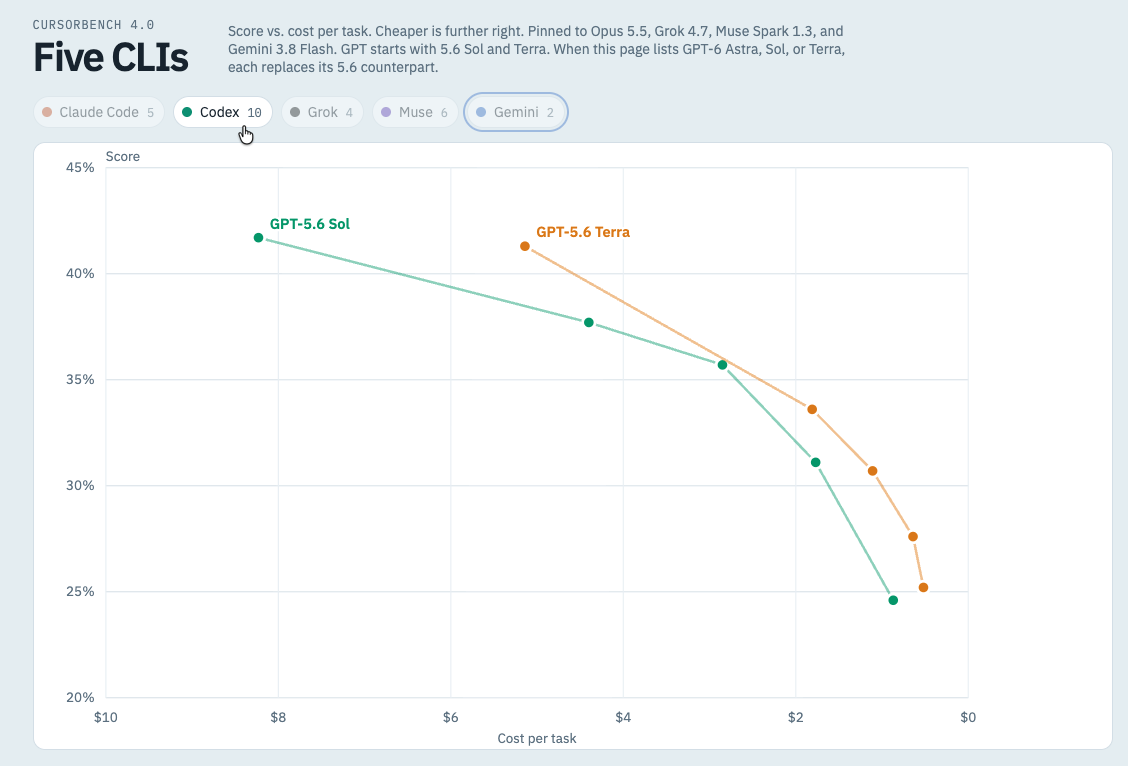
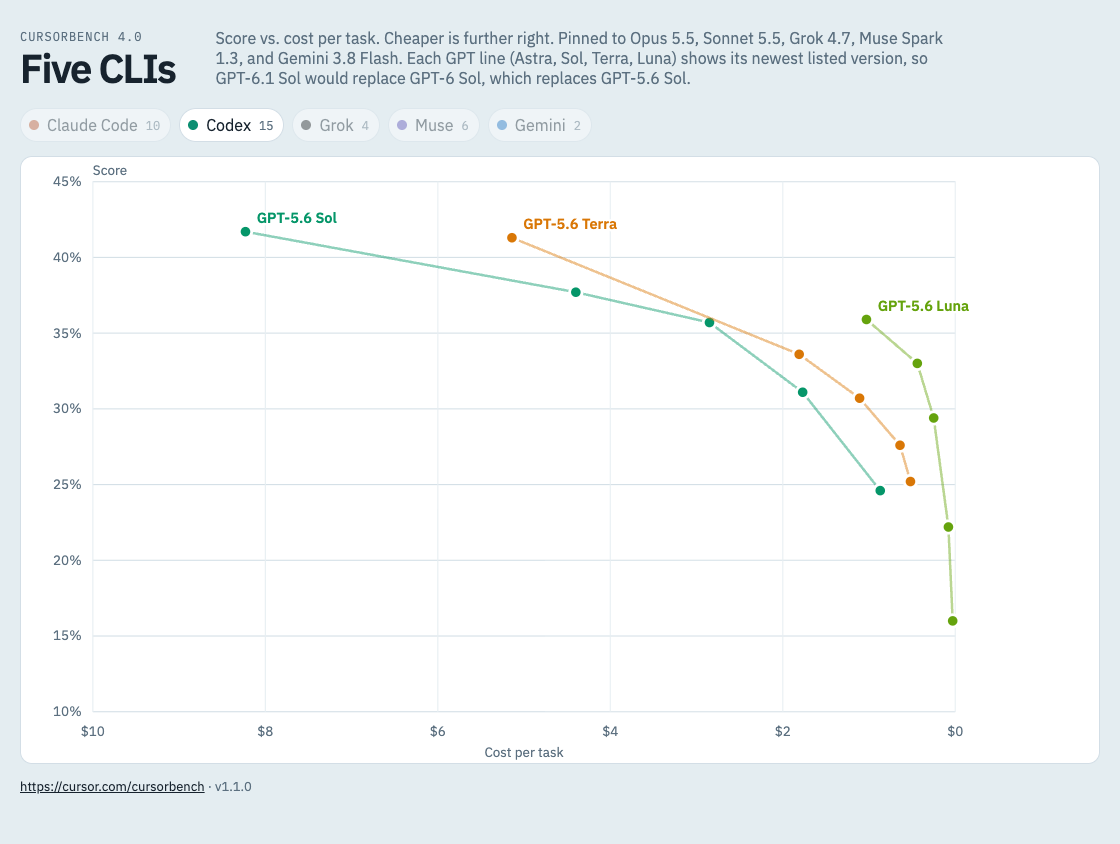
feat: newest GPT line per family, add Sonnet 5.5 and GPT-5.6 Luna
- Each GPT line (Astra, Sol, Terra, Luna) shows its newest listed
  version, so GPT-6.1 Sol replaces GPT-6 Sol, which replaces GPT-5.6 Sol.
- Keep Sonnet 5.5 for Claude Code and GPT-5.6 Luna for Codex.
- Series colors for Sonnet, Fable and Luna.
- Remove unused src/snapshot.ts; refresh README and demo screenshots.
- Bump to 1.1.0.

diff --git a/src/bench.ts b/src/bench.ts
@@ -24,7 +24,7 @@ export const PROVIDERS: readonly {
 
 export const SOURCE_URL = "https://cursor.com/cursorbench"
 
-export const APP_VERSION = "1.0.0"
+export const APP_VERSION = "1.1.0"
 
 export function providerById(id: ProviderId) {
   const found = PROVIDERS.find((item) => item.id === id)
@@ -34,9 +34,12 @@ export function providerById(id: ProviderId) {
 
 export function seriesColor(model: string, provider: ProviderId) {
   if (model.startsWith("Opus")) return "#0ea5e9"
+  if (model.startsWith("Sonnet")) return "#c4552a"
+  if (model.startsWith("Fable")) return "#9a3412"
   if (model.includes("Sol")) return "#059669"
   if (model.includes("Terra")) return "#d97706"
   if (model.includes("Astra")) return "#0f766e"
+  if (model.includes("Luna")) return "#65a30d"
   return providerById(provider).color
 }
 

diff --git a/src/App.tsx b/src/App.tsx
@@ -55,9 +55,9 @@ export default function App() {
           <h1>Five CLIs</h1>
         </div>
         <p className="deck">
-          Score vs. cost per task. Cheaper is further right. Pinned to Opus 5.5, Grok 4.7, Muse Spark 1.3, and Gemini 3.8
-          Flash. GPT starts with 5.6 Sol and Terra. When this page lists GPT-6 Astra, Sol, or Terra, each replaces its 5.6
-          counterpart.
+          Score vs. cost per task. Cheaper is further right. Pinned to Opus 5.5, Sonnet 5.5, Grok 4.7, Muse Spark 1.3, and
+          Gemini 3.8 Flash. Each GPT line (Astra, Sol, Terra, Luna) shows its newest listed version, so GPT-6.1 Sol would
+          replace GPT-6 Sol, which replaces GPT-5.6 Sol.
         </p>
       </header>
 

diff --git a/README.md b/README.md
@@ -4,8 +4,8 @@ A small local viewer for the [CursorBench](https://cursor.com/cursorbench) leade
 
 | CLI         | Models shown                                   |
 | ----------- | ---------------------------------------------- |
-| Claude Code | Opus 5.5                                       |
-| Codex       | GPT-5.6 Sol, GPT-5.6 Terra (see below)         |
+| Claude Code | Opus 5.5, Sonnet 5.5                           |
+| Codex       | GPT-5.6 Sol, Terra, Luna (see below)           |
 | Grok        | Grok 4.7                                       |
 | Muse        | Muse Spark 1.3                                 |
 | Gemini      | Gemini 3.8 Flash                               |
@@ -18,11 +18,13 @@ Hovering a point spotlights that model: the other lines fade, a crosshair marks 
 
 ![Demo: hover spotlights one model and dims the rest](docs/demo-hover.png)
 
-Clicking a legend chip shows or hides that CLI. Here only Codex is visible, comparing GPT-5.6 Sol vs Terra across effort levels.
+Clicking a legend chip shows or hides that CLI. Here only Codex is visible, comparing GPT-5.6 Sol, Terra and Luna across effort levels.
 
 ![Demo: legend chips filter the chart to one CLI](docs/demo-filter.png)
 
-**GPT upgrade rule:** Codex starts with GPT-5.6 Sol and Terra. When the leaderboard lists GPT-6 Astra, Sol, or Terra, each one replaces its same-named 5.6 entry automatically. No code change is needed.
+**GPT upgrade rule:** Codex shows one entry per GPT line: Astra, Sol, Terra and Luna. Each line uses its newest version on the leaderboard, so GPT-6.1 Sol replaces GPT-6 Sol, which replaces GPT-5.6 Sol. A line appears once the leaderboard lists it. No code change is needed.
+
+As of 2026-10-01 the leaderboard has no GPT-6 models, so Codex still shows GPT-5.6. GPT-6 has no Terra line, so Terra stays on 5.6.
 
 ## Quick start
 
